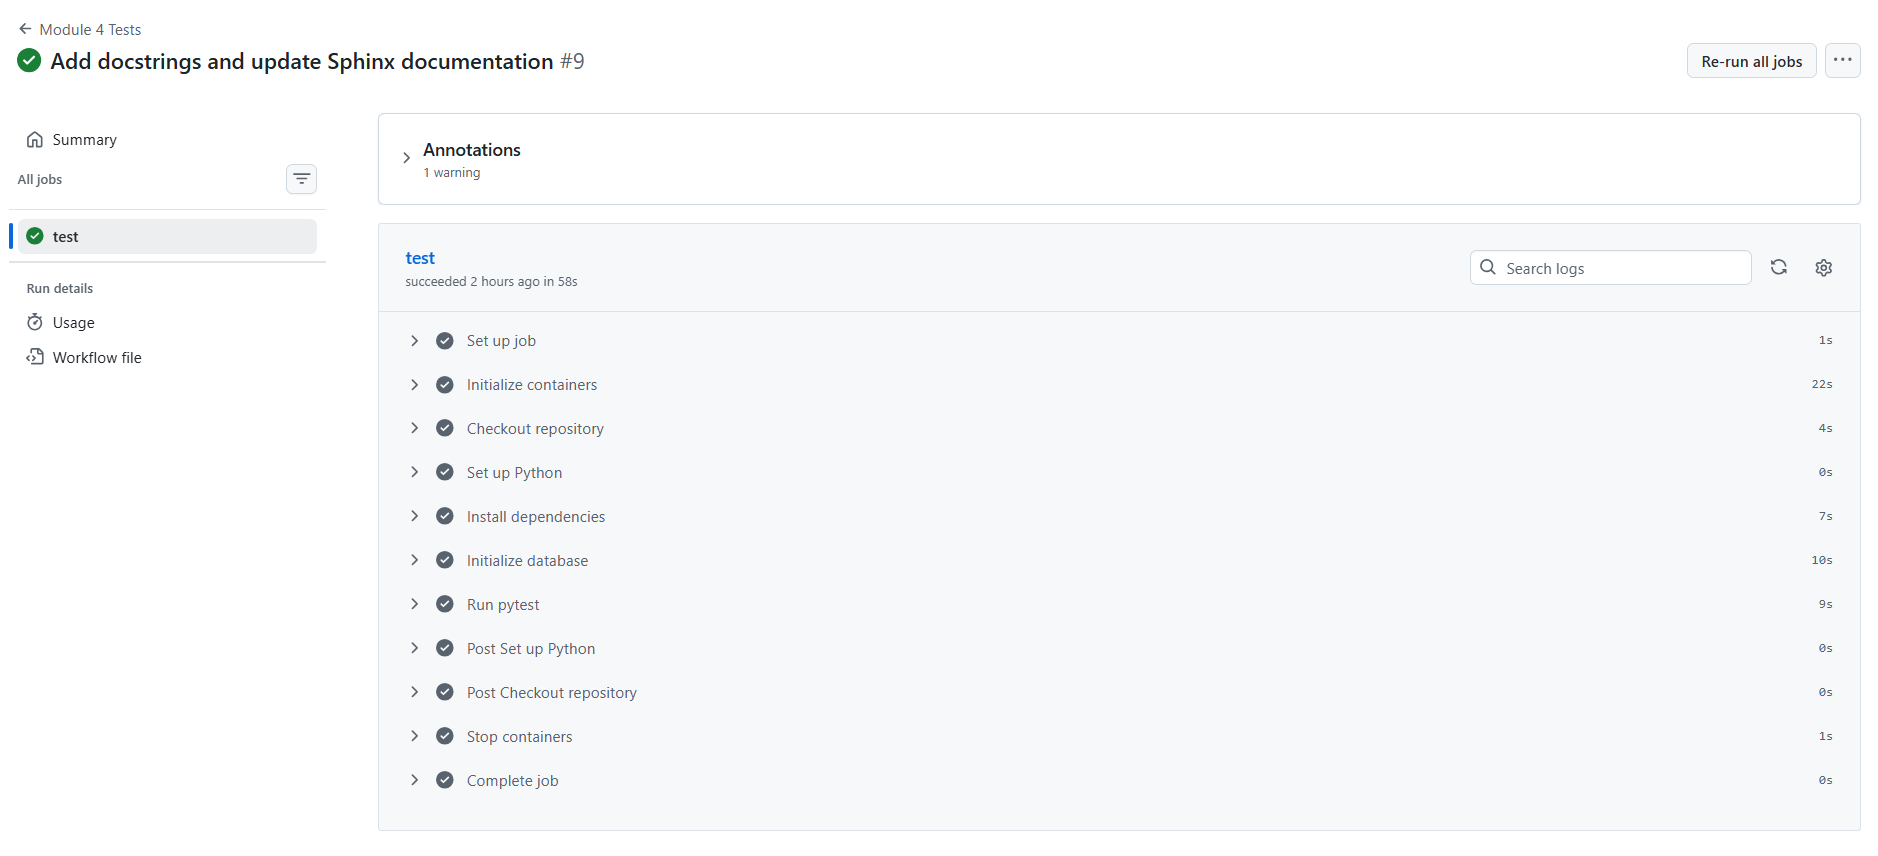
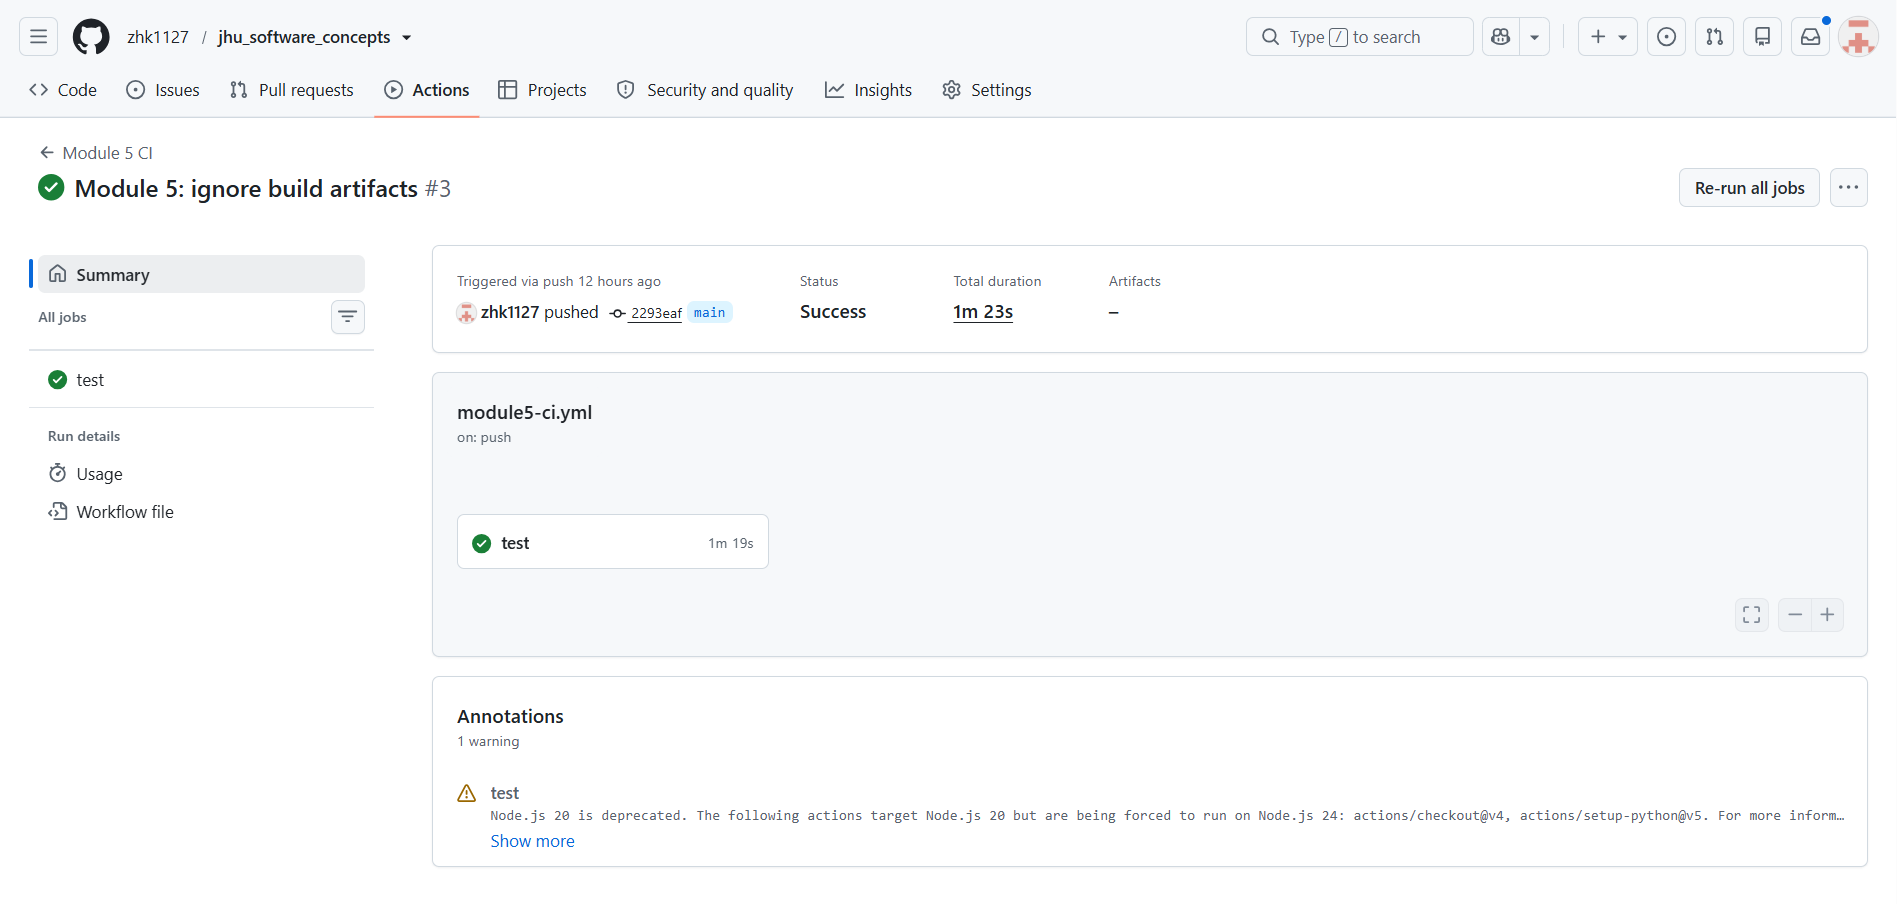
Module 5 final submission materials

diff --git a/module_5/src/query_data.py b/module_5/src/query_data.py
@@ -86,7 +86,8 @@ def get_analysis_results():
     cur.execute("""
         SELECT COUNT(*)
         FROM applicants
-        WHERE term = 'Fall 2026';
+        WHERE term = 'Fall 2026'
+        LIMIT 1;
     """)
     results["Q1"] = f"{cur.fetchone()[0]:,} Fall 2026 entries"
 
@@ -97,7 +98,8 @@ def get_analysis_results():
             2
         )
         FROM applicants
-        WHERE us_or_international NOT IN ('American', 'Other');
+        WHERE us_or_international NOT IN ('American', 'Other')
+        LIMIT 1;
     """)
     results["Q2"] = f"{cur.fetchone()[0]}% International students"
 
@@ -108,7 +110,8 @@ def get_analysis_results():
             ROUND(AVG(CASE WHEN gre BETWEEN 260 AND 340 THEN gre END)::numeric, 2),
             ROUND(AVG(CASE WHEN gre_v BETWEEN 130 AND 170 THEN gre_v END)::numeric, 2),
             ROUND(AVG(CASE WHEN gre_aw BETWEEN 1 AND 6 THEN gre_aw END)::numeric, 2)
-        FROM applicants;
+        FROM applicants
+        LIMIT 1;
     """)
     gpa, gre, gre_v, gre_aw = cur.fetchone()
     results["Q3"] = f"GPA = {gpa}, GRE = {gre}, GRE-V = {gre_v}, GRE-AW = {gre_aw}"
@@ -121,7 +124,8 @@ def get_analysis_results():
         )
         FROM applicants
         WHERE term = 'Fall 2026'
-          AND us_or_international = 'American';
+          AND us_or_international = 'American'
+        LIMIT 1;
     """)
     results["Q4"] = f"Average GPA of American Fall 2026 applicants = {cur.fetchone()[0]}"
 
@@ -134,7 +138,8 @@ def get_analysis_results():
         )
         FROM applicants
         WHERE term = 'Fall 2026'
-          AND status = 'Accepted';
+          AND status = 'Accepted'
+        LIMIT 1;
     """)
     results["Q5"] = f"Acceptance rate for Fall 2026 = {cur.fetchone()[0]}%"
 
@@ -146,7 +151,8 @@ def get_analysis_results():
         )
         FROM applicants
         WHERE term = 'Fall 2026'
-          AND status = 'Accepted';
+          AND status = 'Accepted'
+        LIMIT 1;
     """)
     results["Q6"] = f"Average GPA of accepted Fall 2026 applicants = {cur.fetchone()[0]}"
 
@@ -155,7 +161,8 @@ def get_analysis_results():
         SELECT COUNT(*)
         FROM applicants
         WHERE program = 'Computer Science, Johns Hopkins University'
-          AND degree = 'Masters';
+          AND degree = 'Masters'
+        LIMIT 1;
     """)
     results["Q7"] = f"JHU Computer Science Master's applicants = {cur.fetchone()[0]}"
 
@@ -171,7 +178,8 @@ def get_analysis_results():
             'Computer Science, Massachusetts Institute of Technology (MIT)',
             'Computer Science, Stanford University',
             'Computer Science, Carnegie Mellon University'
-          );
+          )
+        LIMIT 1;
     """)
     q8 = cur.fetchone()[0]
     results["Q8"] = (

diff --git a/module_5/README.md b/module_5/README.md
@@ -24,21 +24,25 @@ https://zhk1127-jhu-software-concepts.readthedocs.io/en/latest/
 
 ## Project Overview
 
-This project analyzes GradCafe graduate admissions data using Flask and PostgreSQL. Module 5 extends the previous application by adding software assurance improvements, including environment-based database credentials, safer SQL construction, Pylint validation, and reproducible project setup.
+This project analyzes GradCafe graduate admissions data using Flask and PostgreSQL. Module 5 extends the previous application by adding software assurance and security improvements, including environment-based database credentials, SQL injection defenses, dependency analysis, GitHub Actions continuous integration, and reproducible project setup.
 
 The application supports:
 
 1. Loading cleaned applicant records into PostgreSQL
-2. Running SQL analytics queries
-3. Displaying Q1–Q11 results in a Flask dashboard
+2. Running SQL analytics queries (Q1–Q11)
+3. Displaying analytics results through a Flask dashboard
 4. Pulling additional GradCafe records
 5. Updating analytics results from the web interface
-6. Running pytest with 100% coverage
+6. Running automated tests with 100% coverage
 7. Running Pylint with a 10.00/10 score
+8. Generating dependency graphs
+9. Performing dependency security scanning with Snyk
 
 ---
 
-## Environment Setup
+# Environment Setup
+
+## Option 1: Standard Python venv
 
 Create and activate a virtual environment:
 
@@ -53,9 +57,44 @@ Install dependencies:
 pip install -r requirements.txt
 ```
 
+Install the project package:
+
+```bash
+pip install -e .
+```
+
 ---
 
-## Environment Variables
+## Option 2: Using uv
+
+Install uv:
+
+```bash
+pip install uv
+```
+
+Create a virtual environment:
+
+```bash
+uv venv
+source .venv/Scripts/activate
+```
+
+Install dependencies:
+
+```bash
+uv pip install -r requirements.txt
+```
+
+Install the package:
+
+```bash
+uv pip install -e .
+```
+
+---
+
+# Environment Variables
 
 Database credentials are loaded from environment variables rather than being hard-coded.
 
@@ -69,11 +108,11 @@ DB_HOST=localhost
 DB_PORT=5432
 ```
 
-The `.env` file is excluded from version control.
+The `.env` file is excluded from version control through `.gitignore`.
 
 ---
 
-## PostgreSQL Setup
+# PostgreSQL Setup
 
 Create the database:
 
@@ -89,7 +128,9 @@ python -m src.load_data
 
 ---
 
-## Run Analytics Queries
+# Running Analytics Queries
+
+Execute all analytical queries:
 
 ```bash
 python -m src.query_data
@@ -97,13 +138,15 @@ python -m src.query_data
 
 ---
 
-## Launch Flask App
+# Launch Flask Application
+
+Start the Flask application:
 
 ```bash
 python -m src.app
 ```
 
-Open:
+Open the dashboard:
 
 ```text
 http://127.0.0.1:5000/analysis
@@ -111,7 +154,7 @@ http://127.0.0.1:5000/analysis
 
 ---
 
-## Testing
+# Testing
 
 Run all tests:
 
@@ -129,7 +172,7 @@ Total coverage: 100.00%
 
 ---
 
-## Pylint
+# Pylint
 
 Run Pylint on all source files:
 
@@ -149,48 +192,154 @@ Current result:
 Your code has been rated at 10.00/10
 ```
 
-Pylint is configured through the included `.pylintrc` file.
+Pylint configuration is stored in:
+
+```text
+.pylintrc
+```
 
 ---
 
-## SQL Injection Defenses
+# Dependency Graph Analysis
 
-Module 5 removes unsafe SQL string construction where dynamic SQL was needed. SQL queries use PostgreSQL parameterization and psycopg SQL composition where appropriate. Database credentials are no longer hard-coded and are loaded from environment variables.
+Generate the dependency graph:
+
+```bash
+pydeps src/app.py --noshow -T svg -o dependency.svg
+```
+
+The generated `dependency.svg` visualizes relationships among project modules and external dependencies.
 
 ---
 
-## Continuous Integration
+# SQL Injection Defenses
 
-GitHub Actions is included under:
+Module 5 refactors dynamic SQL usage to follow secure database programming practices.
+
+Security improvements include:
+
+* No SQL built using f-strings
+* No SQL built using string concatenation
+* No SQL built using `.format()`
+* psycopg SQL composition for dynamic SQL fragments
+* Parameterized query execution using `cursor.execute(stmt, params)`
+* Separation of SQL construction and execution
+* Query LIMIT enforcement
+* Environment-based credential management
+
+These changes prevent user input from being interpreted as executable SQL code.
+
+---
+
+# Database Hardening
+
+Database credentials are stored in environment variables and are not committed to source control.
+
+The application loads configuration from `.env` files using `python-dotenv`.
+
+Sensitive information is excluded from Git tracking through `.gitignore`.
+
+---
+
+# Dependency Security Scanning
+
+Run Snyk dependency scanning:
+
+```bash
+snyk test
+```
+
+Current result:
+
+```text
+Tested 50 dependencies for known issues.
+No vulnerable paths found.
+```
+
+Snyk verifies that project dependencies do not contain known security vulnerabilities.
+
+---
+
+Additional static application security testing was performed using Snyk Code.
+
+# Continuous Integration
+
+GitHub Actions workflows are located under:
 
 ```text
 .github/workflows/
 ```
 
-The workflow validates project setup, tests, and code quality checks.
+The CI pipeline automatically performs:
+
+* Pytest execution
+* Coverage verification
+* Pylint validation (`--fail-under=10`)
+* Dependency graph generation
+* Snyk dependency scanning
+
+Every push automatically triggers validation of project quality and security checks.
 
 ---
 
-## Key Deliverables
+# Package Installation
+
+The project can be installed as an editable Python package:
+
+```bash
+pip install -e .
+```
+
+or
+
+```bash
+uv pip install -e .
+```
+
+Editable installation allows source code modifications to be immediately reflected without reinstalling the package.
+
+---
+
+# Key Deliverables
 
 This Module 5 submission includes:
 
 * `src/`
 * `tests/`
 * `requirements.txt`
+* `setup.py`
 * `.env.example`
 * `.gitignore`
 * `.pylintrc`
 * `.github/workflows/`
 * `README.md`
 * `coverage_summary.txt`
-* screenshots
+* `dependency.svg`
+* Snyk analysis screenshots
 * Sphinx documentation source files
+* Read the Docs configuration
+
+---
+
+# Security Features Summary
+
+Module 5 introduces the following software assurance improvements:
+
+* Environment-based credential management
+* SQL injection defenses
+* Query LIMIT enforcement
+* Dependency graph generation
+* Pylint static analysis
+* Snyk dependency scanning
+* GitHub Actions CI validation
+* Reproducible installation using pip and uv
 
 ---
 
 ## Author
 
 Hongkang Zhang
+
 Johns Hopkins University
+
 Software Concepts – Module 5